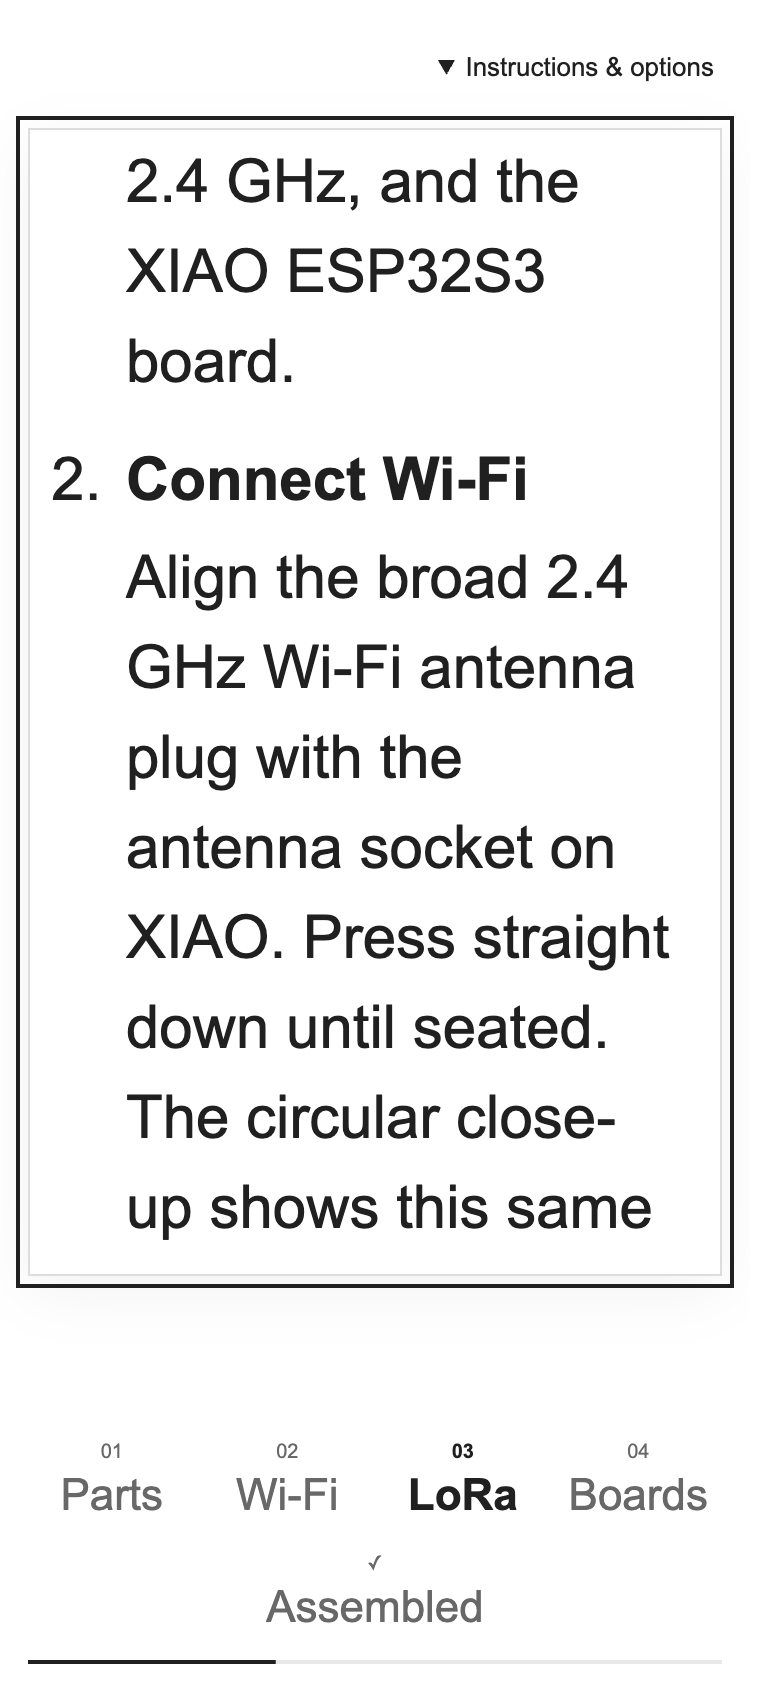
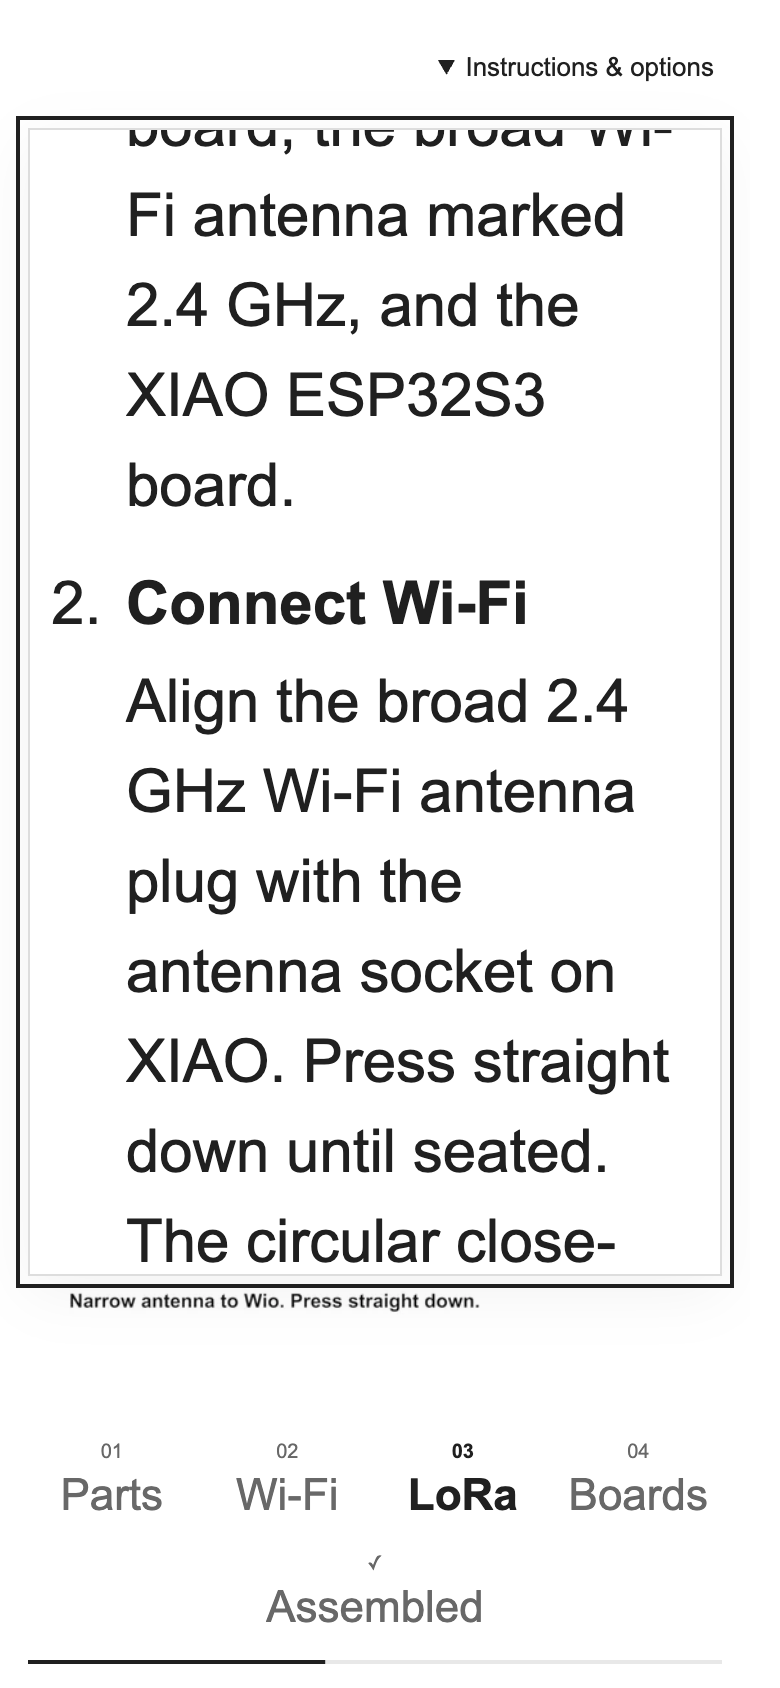
fix: land chapter links on visible connector views

diff --git a/assembly-scroll-site/scripts/prepare_assets.py b/assembly-scroll-site/scripts/prepare_assets.py
@@ -70,14 +70,16 @@ def main():
                           "resolutions": [resolution_info(key, value[1], value[2], size)
                                           for size in RESOLUTIONS]}
                      for key, value in VARIANTS.items()},
+        # Navigation lands after the fades, with the close-up visible and before seating.
+        # Keep startIndex at the original boundary for ordinary scroll playback.
         "chapters": [
             {"id": "parts", "label": "Parts", "startIndex": 0, "targetIndex": 0, "stillIndex": 33,
              "description": "Step 1. Check the parts: LoRa antenna, Wio-SX1262, Wi-Fi antenna and XIAO ESP32S3."},
-            {"id": "wifi", "label": "Wi-Fi", "startIndex": 45, "targetIndex": 45, "stillIndex": 129,
+            {"id": "wifi", "label": "Wi-Fi", "startIndex": 45, "targetIndex": 90, "stillIndex": 129,
              "description": "Step 2. Connect the 2.4 GHz Wi-Fi antenna to XIAO. The circle magnifies the same connector."},
-            {"id": "lora", "label": "LoRa", "startIndex": 150, "targetIndex": 150, "stillIndex": 234,
+            {"id": "lora", "label": "LoRa", "startIndex": 150, "targetIndex": 180, "stillIndex": 234,
              "description": "Step 3. Connect the 868 MHz LoRa antenna to Wio. The circle magnifies the same connector."},
-            {"id": "boards", "label": "Boards", "startIndex": 255, "targetIndex": 255, "stillIndex": 363,
+            {"id": "boards", "label": "Boards", "startIndex": 255, "targetIndex": 315, "stillIndex": 363,
              "description": "Step 4. Turn to the rear, align the board connector and join the boards. XIAO socket shown simplified."},
             {"id": "assembled", "label": "Assembled", "startIndex": 375, "targetIndex": 420, "stillIndex": 420,
              "description": "Assembly complete. Both antennas are connected and the joined boards face the front."},
